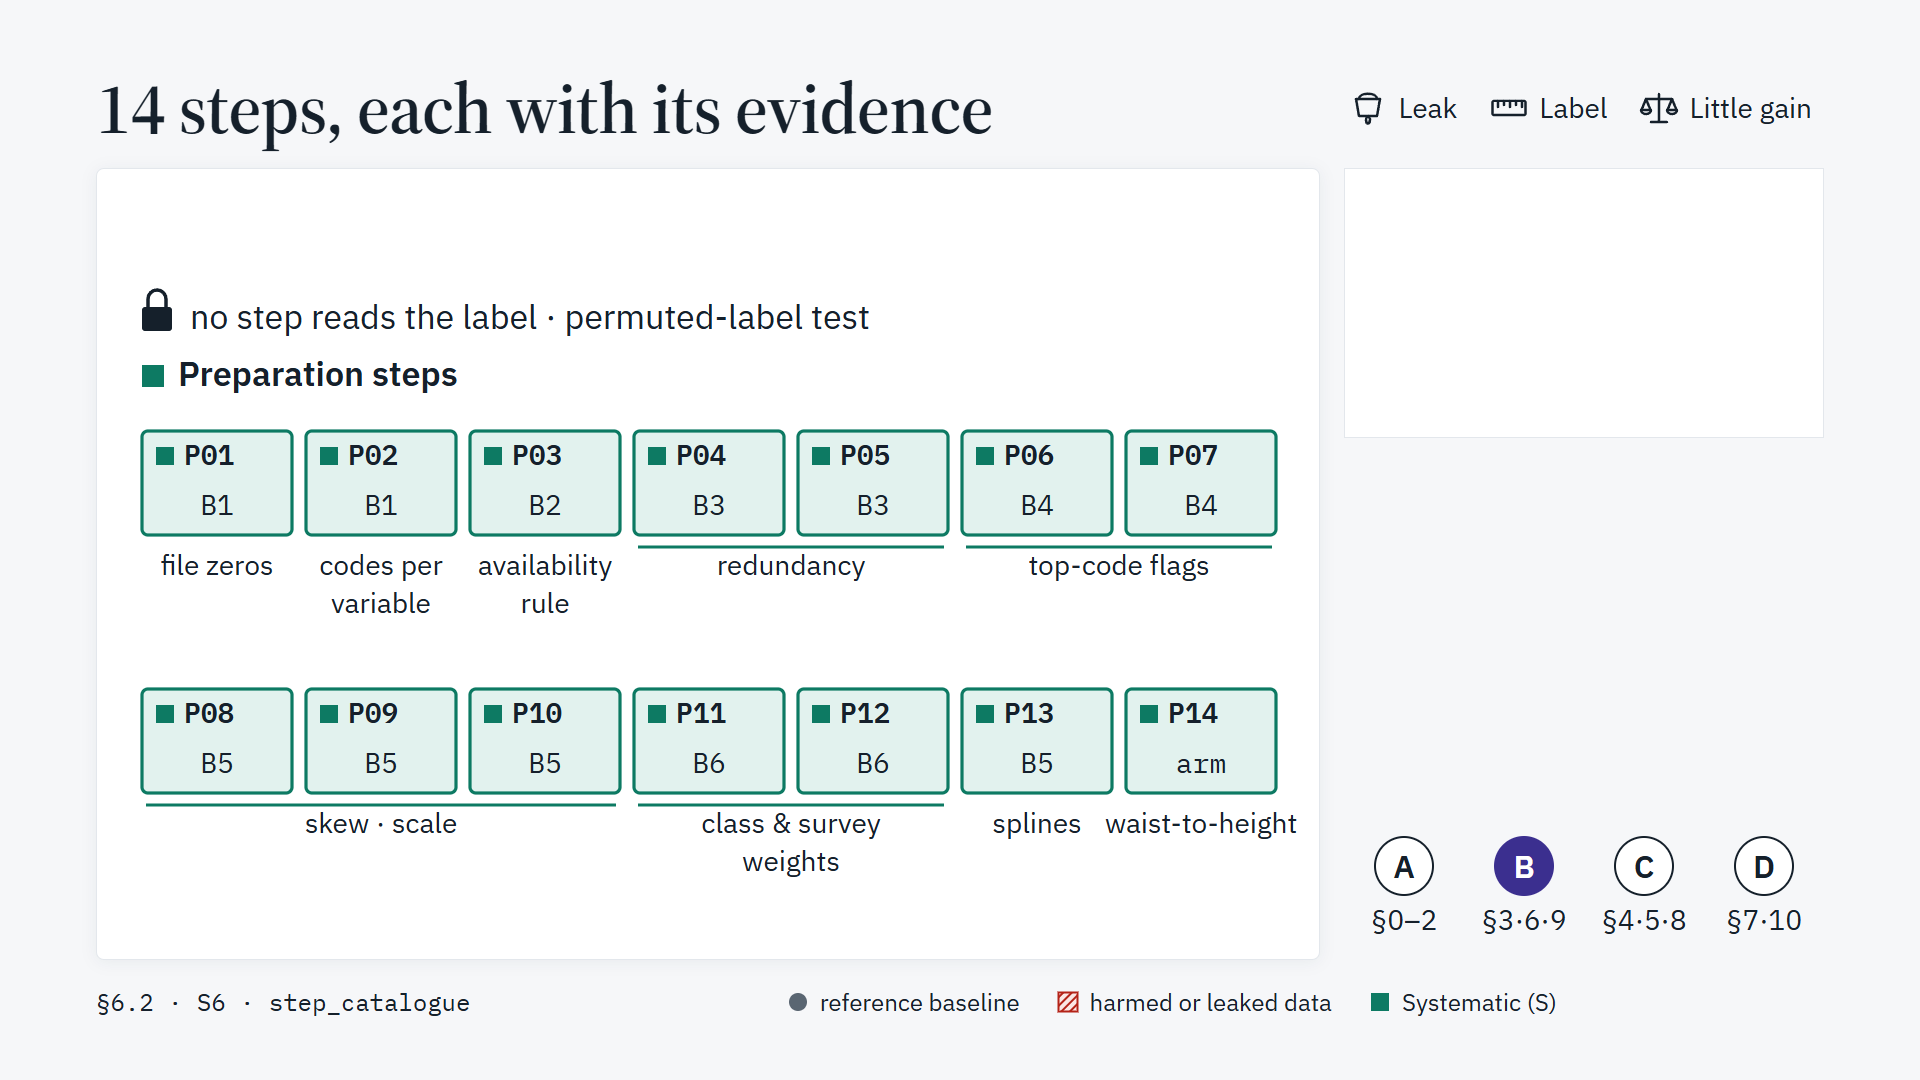
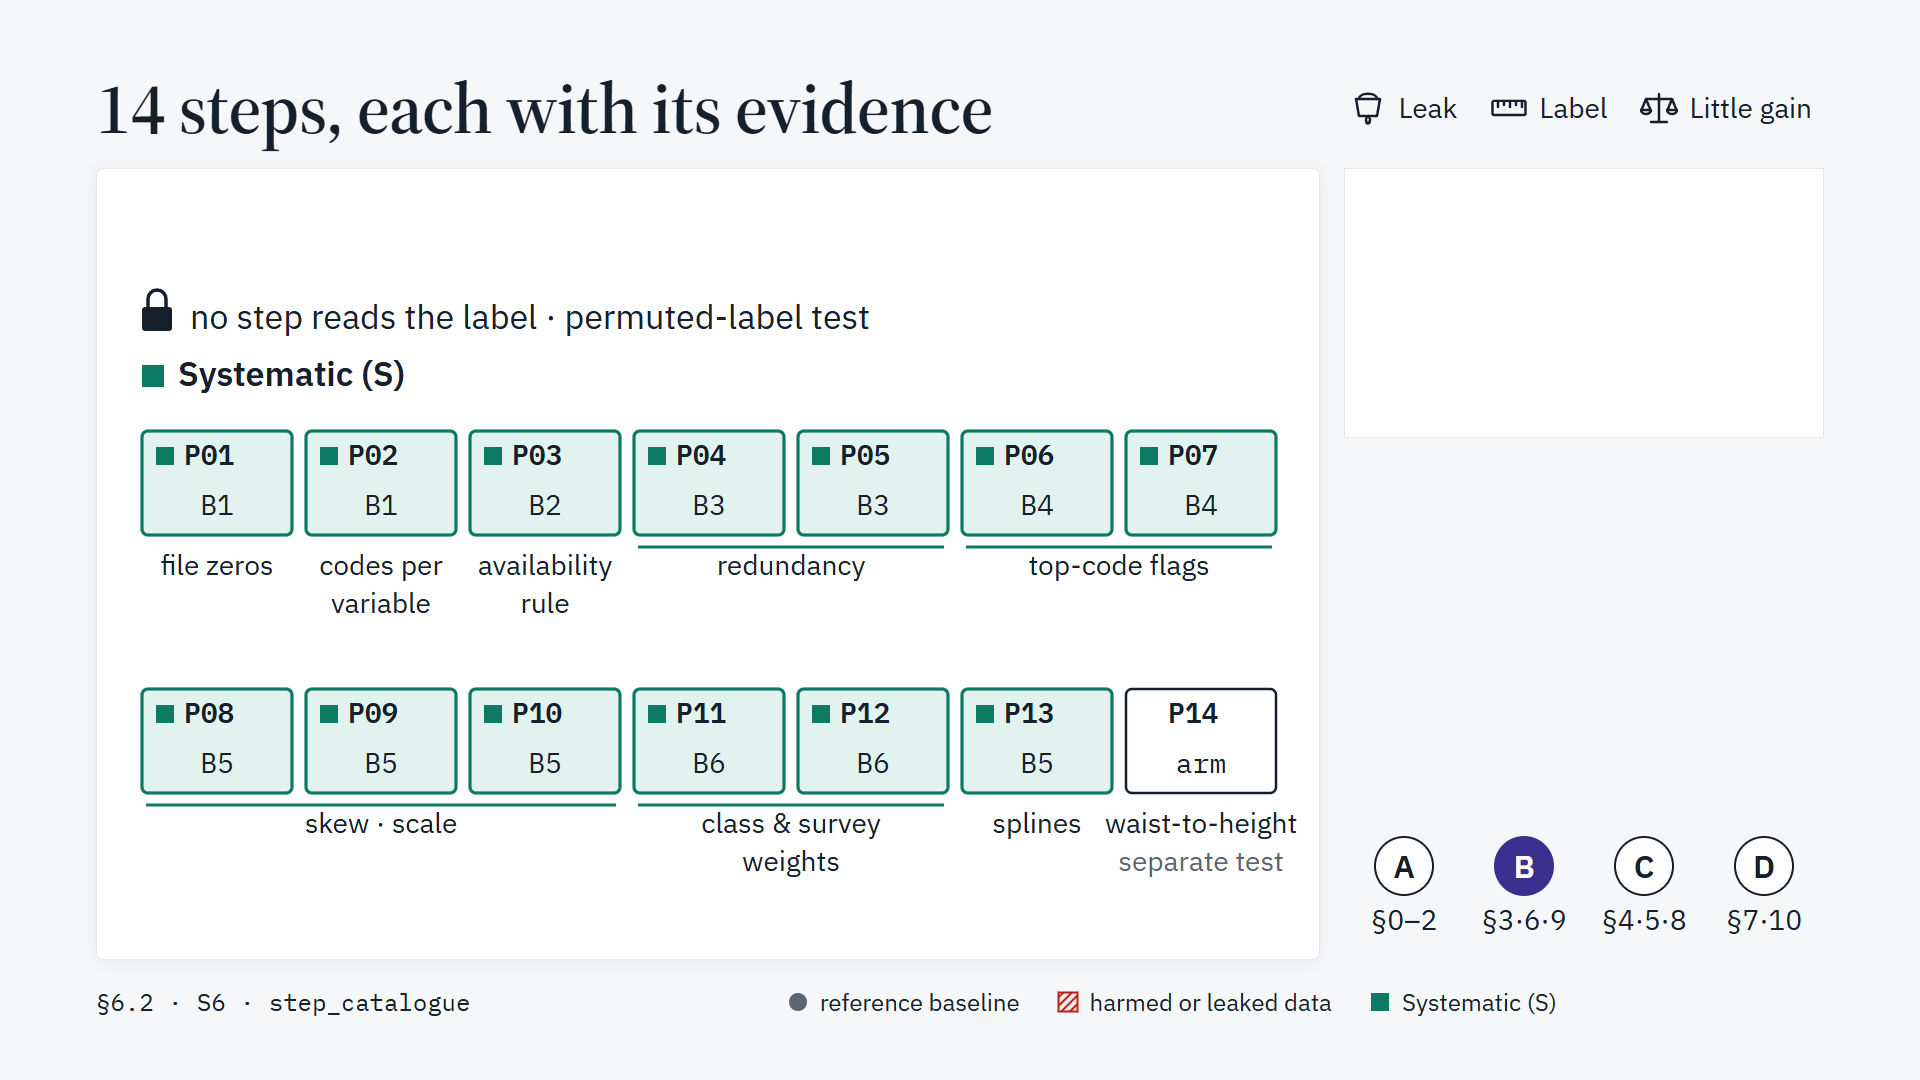
fix(video): scene 12 P14 card neutral (separate test), 13 cards teal

Changed region(s): [[0.5625, 0.6111, 0.6875, 0.7333], [0.0938, 0.3361, 0.25, 0.3667], [0.5938, 0.7944, 0.6562, 0.825]]

diff --git a/video/scenes/s12_fourteen_steps.html b/video/scenes/s12_fourteen_steps.html
@@ -38,7 +38,7 @@ const GROUPS = [
   { cards: [5, 6], label: ['top-code flags'] },
   { cards: [7, 8, 9], label: ['skew · scale'] },
   { cards: [10, 11], label: ['class & survey', 'weights'] },
-  { cards: [12, 13], label: ['splines', 'waist-to-height'], split: true },   // P13 'splines', P14 'waist-to-height'
+  { cards: [12], label: ['splines'] },
 ];
 
 K.createScene({
@@ -86,10 +86,17 @@ K.createScene({
       if (cs.length > 1) K.svg('path', { d: `M${cs[0].x + 4} ${by + 12} H${cs[cs.length - 1].x + cs[0].cw - 4}`, stroke: K.C.systematic, 'stroke-width': 3, fill: 'none' }, g);
       return { cards: cs, g };
     });
+    // P14 (WHtR) is a separate arm, not part of S: neutral card (ink outline, white fill, no teal marker) with its evidence and a muted label
+    const c14 = S.cards[13];
+    S.p14 = K.svg('g', {}, fig);
+    K.text(S.p14, { x: c14.x + c14.cw / 2, y: c14.y + c14.ch + 40, text: 'waist-to-height', anchor: 'middle', cls: 'kit-t-min' });
+    const sep = K.text(S.p14, { x: c14.x + c14.cw / 2, y: c14.y + c14.ch + 78, text: 'separate test', anchor: 'middle', cls: 'kit-t-min' });
+    sep.style.fill = '#5A6672';
+    K.op(c14.sq, 0);
     // Systematic (S) label and the lock label
     S.sLab = K.svg('g', {}, fig);
     K.svg('rect', { x: x0, y: 196, width: 22, height: 22, fill: K.C.systematic }, S.sLab);
-    K.text(S.sLab, { x: x0 + 36, y: 217, text: 'Preparation steps', cls: 'kit-t-note', weight: 600 });
+    K.text(S.sLab, { x: x0 + 36, y: 217, text: 'Systematic (S)', cls: 'kit-t-note', weight: 600 });
     S.lock = K.svg('g', {}, fig);
     const lx = x0, ly = 126;
     K.svg('rect', { x: lx, y: ly + 12, width: 30, height: 24, rx: 3, fill: K.C.ink }, S.lock);
@@ -110,6 +117,7 @@ K.createScene({
         K.op(cd.sq, a);
       });
     });
+    K.op(S.p14, K.appear(t, c.groups[7]));
     K.op(S.sLab, K.appear(t, c.all));
     K.op(S.lock, K.appear(t, c.lock));
   },
